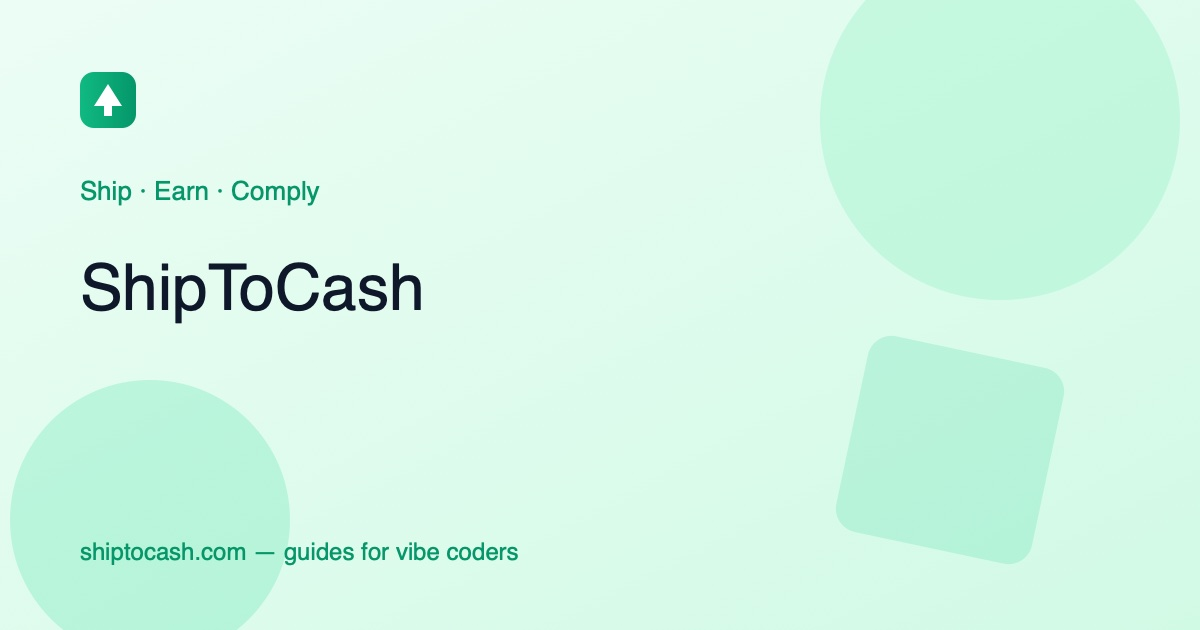
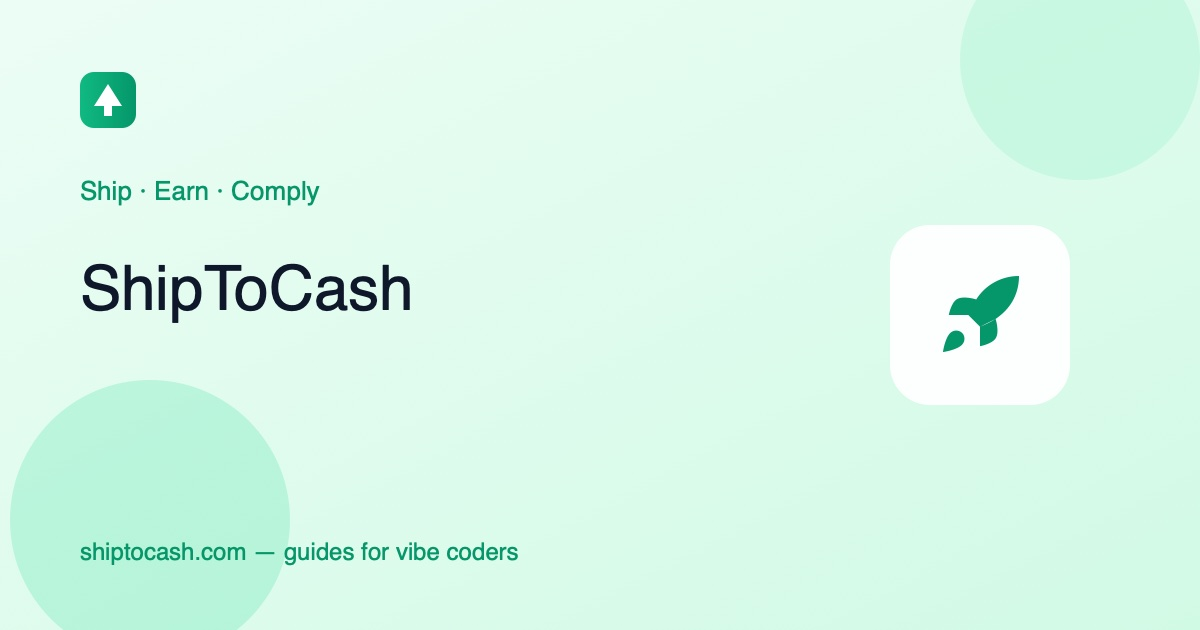
Add post: Vercel vs Netlify vs Cloudflare Pages comparison
Also rework OG image generator to show per-article brand icons
(auto-detected from title keywords via simple-icons, category icon
as fallback) and fix title truncation with a 2-line/3-line wrap
strategy.

Changed region(s): [[0.6783, 0.0, 0.9867, 0.9048], [0.0617, 0.4222, 0.37, 0.5127]]

diff --git a/src/content/blog/vercel-vs-netlify-vs-cloudflare-pages.md b/src/content/blog/vercel-vs-netlify-vs-cloudflare-pages.md
@@ -1,0 +1,101 @@
+---
+title: "Vercel vs Netlify vs Cloudflare Pages: I Deployed to All Three"
+description: "Honest comparison of the three big free static hosts — Vercel, Netlify, and Cloudflare Pages — after deploying real apps to each. Which one for your first app?"
+pubDate: 2026-08-04
+category: deploy
+difficulty: beginner
+author: "Peng Zhou"
+faq:
+  - question: "Can I use Vercel's free tier for a commercial project?"
+    answer: "No. The Hobby plan is licensed for non-commercial use only. If your app makes money (ads, subscriptions, sales), you need Vercel Pro at $20/month — or use Cloudflare Pages, which allows commercial use on the free plan."
+  - question: "Can I switch hosts later without rebuilding my app?"
+    answer: "Yes. All three deploy from the same Git repository. Moving means connecting your repo to the new host, updating your DNS records, and waiting for propagation — usually under an hour of actual work."
+  - question: "Do any of them require a credit card for the free tier?"
+    answer: "No. Vercel, Netlify, and Cloudflare Pages all let you sign up and deploy without a credit card."
+---
+
+Picking a host is the first decision that actually matters after your app works locally. The three names you'll see everywhere are Vercel, Netlify, and Cloudflare Pages — all free to start, all deploy from Git, all handle HTTPS for you.
+
+I've deployed real projects to all three — this site included. This isn't a feature-list regurgitation; it's what actually differs when you use them, and which one I'd hand to someone deploying their first app today.
+
+My test setup, so you know where the opinions come from: a Next.js side project (Vercel, then migrated), an Astro content site (Cloudflare Pages), and a handful of client demos (Netlify, back when it was my default). So I've hit the real limits of each, not just read the pricing pages.
+
+## The short answer
+
+- **Deploying your very first app?** Use **Vercel**. The onboarding is the smoothest and the error messages are the most readable. (My [step-by-step Vercel guide](/deploy/deploy-first-app-vercel/) takes about 15 minutes.)
+- **Expecting real traffic, or monetizing from day one?** Use **Cloudflare Pages**. Unlimited bandwidth, commercial use allowed, free.
+- **Netlify** is fine, but in 2026 it's the third choice for most people — keep reading for why.
+
+## What they have in common (so you can stop worrying)
+
+All three give you: Git-based auto-deploys, preview URLs for pull requests, free HTTPS with auto-renewed certificates, a global CDN, custom domains, and no credit card required. If you pick any of them, your app will be fast and secure.
+
+The differences are in pricing limits, framework support, and developer experience.
+
+## Vercel: the best first-deploy experience
+
+Vercel makes Next.js, so its tooling is the most polished for React/Next apps — but it handles Astro, Vite, SvelteKit, and plain HTML just as well.
+
+**What I like:**
+- Framework detection is right almost every time. You click Import, it figures out the rest.
+- Build logs are the clearest of the three. When a deploy fails, the error usually tells you the actual cause.
+- Preview deployments are the most mature — every PR gets a URL you can share.
+
+**The catch:**
+- **Hobby tier is non-commercial only.** Running AdSense or charging users on a Hobby account violates the terms. The moment you monetize, that's $20/month for Pro.
+- 100 GB/month bandwidth sounds like a lot, and it is — until something goes viral. Then you're paying or migrating.
+
+## Netlify: the original, now mostly middle-of-the-road
+
+Netlify basically invented this category of Git-based static hosting, and it's still solid. But it hasn't pulled ahead anywhere that matters for a first app.
+
+**What I like:**
+- Built-in form handling and split testing — nice if you need them, you probably don't yet.
+- Very framework-agnostic. No favorite child.
+
+**The catch:**
+- The free tier limits **build minutes to 300/month**. Sounds fine until you're iterating with an AI tool and pushing 20 times a day — a 2-minute build means 150 deploys and you're done for the month. I've hit this ceiling. It's annoying.
+- Smaller free bandwidth (100 GB) and a community that's quieter than the other two.
+
+## Cloudflare Pages: the one I actually use now
+
+Full disclosure: this is where my own projects live, including this site.
+
+**What I like:**
+- **Unlimited bandwidth on the free plan.** Not "generous" — unlimited. A Reddit hug of death costs you nothing.
+- **Commercial use is allowed.** Ads, subscriptions, whatever — no tier upgrade required.
+- Cloudflare's network is genuinely one of the fastest on the planet, and your DNS, CDN, and host live in one place.
+- It plays well with Workers if you later need server-side logic.
+
+**The catch:**
+- Developer experience is a notch below Vercel. The dashboard is busier, and error messages are terser.
+- If your app needs full server-side rendering (Next.js with API routes, for example), support exists via adapters but it's the roughest edge of the platform. For static/SSG sites — most first apps — you'll never notice.
+
+## Head-to-head
+
+| | Vercel | Netlify | Cloudflare Pages |
+|---|---|---|---|
+| Free bandwidth | 100 GB/mo | 100 GB/mo | **Unlimited** |
+| Commercial use free | ❌ (Pro $20/mo) | ✅ | ✅ |
+| Build limit | 100 deploys/day | 300 build min/mo | 500 builds/mo |
+| Framework detection | Excellent | Good | Good |
+| Full SSR support | Excellent | Good | Okay (adapters) |
+| Dashboard/DX | Best | Good | Busy |
+
+## What about GitHub Pages, Render, and Railway?
+
+**GitHub Pages** is free and unlimited-ish, but it only serves plain static files — no build pipeline worth mentioning, no preview deployments, no serverless anything. It's where documentation sites live, not where your app should.
+
+**Render and Railway** are for apps with persistent backends (long-running Node servers, Docker containers, databases). If your AI tool built you a pure frontend or a framework app, you don't need them yet — and their free tiers either sleep your app (Render spins down after 15 minutes idle, meaning 30+ second cold starts for your visitors) or are time-limited trials (Railway). When you outgrow serverless, that's when these enter the conversation.
+
+## So which one?
+
+For a first app, I still say **Vercel** — when you're learning, clear error messages matter more than pricing theory. You'll deploy, break things, read logs, and learn.
+
+But here's the nuance most comparison posts skip: **if you already know you'll monetize** (AdSense, a paid tool, an affiliate site like this one), start on **Cloudflare Pages** instead. Migrating later is easy but not free of friction — you'll touch DNS, and DNS changes make everyone nervous. Starting where you'll end up saves that.
+
+And don't agonize. All three deploy from the same Git repo, so switching later is an hour of work, not a rebuild. The worst host decision is the one that delays your first deploy by a week.
+
+## Next steps
+
+Picked Vercel? Follow the [15-minute deploy guide](/deploy/deploy-first-app-vercel/). Picked Cloudflare Pages? The flow is nearly identical — connect GitHub, set build command to `npm run build`, output directory `dist`, done. Either way, next up is connecting a custom domain.
